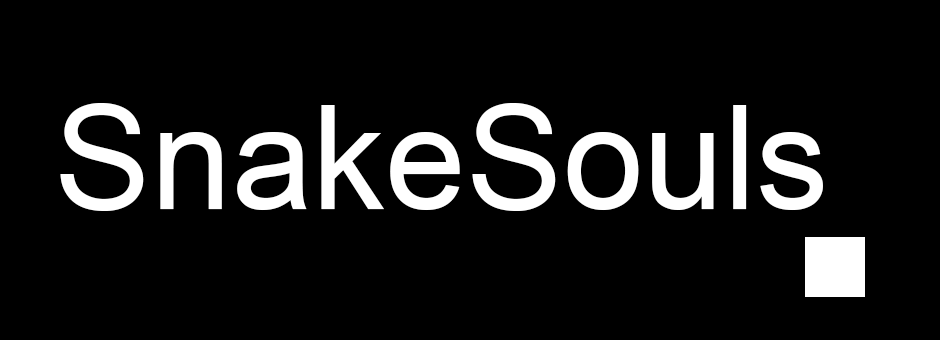
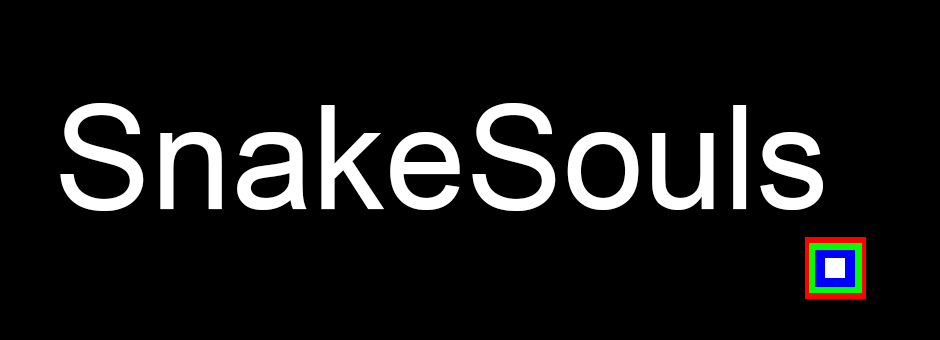
v1.4a
Cleaned up some more files and code
Added custom scrollbar
Added Updates Section
Added About page (Under Construction)
Updated SnakeSouls banner

Changed region(s): [[0.833, 0.6765, 0.9255, 0.8824]]

diff --git a/index.html b/index.html
@@ -4,7 +4,26 @@ Template Name: FusionEdgeAuthor: <a href="https://www.os-templates.com/">OS Temp
 <html>
   <head>
     <meta http-equiv="content-type" content="text/html; charset=UTF-8">
-    <title>AEXTek</title>
+    <style>
+/* The emerging W3C standard
+   that is currently Firefox-only */
+* {
+  scrollbar-width: thin;
+  scrollbar-color: red white;
+}
+
+/* Works on Chrome/Edge/Safari */
+body::-webkit-scrollbar {
+  width: 5px;               /* width of the entire scrollbar */
+}
+body::-webkit-scrollbar-track {
+  background:  rgba(256, 256, 256); ; /* color of the tracking area */
+}
+body::-webkit-scrollbar-thumb {
+  background-color: rgba(204, 0, 0);    /* color of the scroll thumb */
+}
+
+</style> <title>AEXTek</title>
     <link rel="stylesheet" href="layout/styles/layout.css" type="text/css">
     <!-- Featured Slider Elements -->
     <script src="layout/scripts/jquery.min.js"></script>
@@ -17,7 +36,7 @@ $(document).ready(function() {
 });
 </script><!-- End Featured Slider Elements -->
   </head>
-  <body style="                                         background-color: black;">
+  <body style="                                                       background-color: black;">
     <div class="wrapper row1" style="height: 295px; background-color: black;">
       <div style="text-align: left;">
         <div style="text-align: center;">
@@ -31,73 +50,43 @@ $(document).ready(function() {
     </div>
     <div class="wrapper row2" style="background-color: white; height: 72.75px; margin-top: 1.25px;">
       <nav id="topnav" class="clear" style="width: 595px; text-align: center;">
-        <ul style="margin-left: 25px; width: 649px; background-color: white;">
-          <li class="active" style="text-align: center; background-color: white;"><span
+        <ul style="margin-left: 23px; width: 577px;">
+          <span style="font-family: Arial;">
+            <li class="active"><a href="../index.html" title="Home">Home</a></li>
+            <li><a href="pages/error404.html" title="Projects">Projects</a></li>
+            <li><a href="pages/error404.html" title="Works">Works</a></li>
+            <li><a href="#">Socials</a>
+              <ul style="margin-left: -45px; width: 170px;">
+                <li style="background-color: #fdfdfd;"><br>
+                  <span style="color: black;"><span style="font-family: Arial;"></span></span></li>
+                <li style="background-color: #fdfdfd;"><span style="color: black;"><span
 
-              style="color: black;"><span style="font-family: Arial;"><span style="color: #ffffff;"><a
+                      style="font-family: Arial;"><a href="https://www.youtube.com/channel/UCKTd-jIlLjKj_IVVMJmRw9g"
 
-                    href="index.html">Home</a></span></span></span></li>
-          <span style="color: white;"> <span style="font-family: Arial;"> </span>
-          </span>
-          <li style="background-color: white;"><span style="color: white;"><span
+                        target="_blank">Youtube</a></span></span></li>
+                <span style="color: black;"> </span>
+                <li><span style="color: black;"><span style="font-family: Arial;"><a
 
-                style="font-family: Arial;"><a href="pages/error404.html">Projects</a></span></span></li>
-          <span style="color: white;"> <span style="font-family: Arial;"> </span>
-          </span>
-          <li style="background-color: white;"><span style="color: white;"><span
+                        href="https://www.instagram.com/aex10pics" target="_blank">Insta</a></span></span></li>
+                <span style="color: black;"> </span>
+                <li><span style="color: black;"><span style="font-family: Arial;"><a
 
-                style="font-family: Arial;"><br>
-              </span></span> </li>
-          <span style="color: black;"> <span style="font-family: Arial;"> </span>
-          </span>
-          <li style="background-color: black;"><span style="color: black;"><span
+                        href="https://steamcommunity.com/id/AEX10Playz" target="_blank">Steam</a></span></span></li>
+              </ul>
+            </li>
+            <li> <a href="file:///E:/Projects/GIT/Website/Testing%20Branch/pages/about.html"
 
-                style="font-family: Arial;"><a href="pages/error404.html" style="margin-left: -32px;">Works</a></span></span></li>
-          <span style="color: black;"> <span style="font-family: Arial;"> </span>
-          </span>
-          <li style="background-color: white;"><span style="color: black;"><span
-
-                style="font-family: Arial;"><a href="#">Socials</a></span></span>
-            <ul style="margin-left: -45px; width: 170px;">
-              <li style="background-color: #fdfdfd;"><br>
-                <span style="color: black;"><span style="font-family: Arial;"></span></span></li>
-              <li style="background-color: #fdfdfd;"><span style="color: black;"><span
-
-                    style="font-family: Arial;"><a href="https://www.youtube.com/channel/UCKTd-jIlLjKj_IVVMJmRw9g"
-
-                      target="_blank">Youtube</a></span></span></li>
-              <span style="color: black;"> </span>
-              <li><span style="color: black;"><span style="font-family: Arial;"><a
-
-                      href="https://www.instagram.com/aex10pics" target="_blank">InstaGrAM</a></span></span></li>
-              <span style="color: black;"> </span>
-              <li><span style="color: black;"><span style="font-family: Arial;"><a
-
-                      href="https://steamcommunity.com/id/AEX10Playz" target="_blank">StEAM</a></span></span></li>
-            </ul>
-          </li>
-          <span style="color: black;"> <span style="font-family: Arial;"> </span>
-          </span>
-          <li style="background-color: black;"><span style="color: black;"><span
-
-                style="font-family: Arial;"><a href="pages/error404.html">About</a></span></span></li>
-          <span style="color: black;"> <span style="font-family: Arial;"> </span>
-          </span>
-          <li class="last" style="background-color: black;"><span style="color: black;"><span
-
-                style="font-family: Arial;"><a href="mailto:aex10@outlook.com">Contact</a></span></span></li>
-          <span style="font-family: Arial;"> <span style="color: black;"> </span>
+                title="About">About</a></li>
+            <li><a href="mailto:aex10@outlook.com" title="Contact">Contact</a></li>
           </span>
         </ul>
-        <span style="font-family: Arial;"> <span style="color: black;"> </span></span></nav>
-      <div style="text-align: center;"><br>
-      </div>
+      </nav>
     </div>
     <!-- content -->
     <div class="wrapper row3" style="background-color: #000000; height: 911.333px; margin-top: -33.3333px;">
       <div id="container" class="clear" style="margin-top: 22px;">
         <!-- Slider -->
-        <section id="featured_slide_">
+        <section id="featured_slide_" style="margin-top: 160.217px; height: 340px;">
           <!-- ########################################################################################## -->
           <ul id="featured_slide_Content">
             <li class="featured_slide_Image">
@@ -126,13 +115,56 @@ $(document).ready(function() {
         <div id="homepage" style="background-color: black;">
           <div><span style="color: white;"><span style="font-family: Alef;"><span
 
-                  style="font-family: Calibri;">Hello there! This site is where
-                  I keep small coding projects I've worked on and random
-                  creations like drawings, 3d renders, writings, edits, etc.
-                  Feel </span></span></span><span style="color: white;"><span style="font-family: Alef;"><span
+                  style="font-family: Calibri;"></span></span></span><span style="color: white;"><span
 
-                  style="font-family: Calibri;">free to download and modify some
-                  of my stuff for personal use. Ладно?<br>
+                style="font-family: Alef;"><span style="font-family: Calibri;"><span
+
+                    style="color: #33ff33;">Read the Latest Update (7/27/2020):</span></span></span></span></div>
+          <div><span style="color: white;"><span style="font-family: Alef;"><span
+
+                  style="font-family: Calibri;"><br>
+                  <span style="color: #979797;"><span style="font-family: Calibri Light,&quot;Calibri Light&quot;,Times,serif;"></span></span></span></span></span></div>
+          <div><span style="color: white;"><span style="font-family: Alef;"><span
+
+                  style="font-family: Calibri;"><span style="color: #33ff33;"><br>
+                  </span></span></span></span> </div>
+          <div><span style="color: white;"><span style="font-family: Alef;"><span
+
+                  style="font-family: Calibri;"><span style="color: #33ff33;"><br>
+                  </span></span></span></span></div>
+          <div><span style="color: white;"><span style="font-family: Alef;"><span
+
+                  style="font-family: Calibri;"><span style="color: #33ff33;"></span><img
+
+                    src="file:///E:/Projects/GIT/Website/Testing%20Branch/images/updatebar.png"
+
+                    alt="" style="width: 952.444px; height: 231.889px; margin-left: -11.0778px;"><br>
+                </span></span></span></div>
+          <div><span style="color: white;"><span style="font-family: Alef;"><span
+
+                  style="font-family: Calibri;"><br>
+                </span></span></span></div>
+          <div><span style="color: white;"><span style="font-family: Alef;"><span
+
+                  style="font-family: Calibri;">Still working on finishing up
+                  this site, I've already collected everything I wanna put on
+                  here. Just need to finish the pages and start uploading
+                  everything. I like graphic design so I spend a lot more time
+                  than I should trying to get every little detail right. I don't
+                  really have much experience with CSS so I've mostly been using
+                  HTML and JS to embed features and add graphics. Here is the
+                  changelog so far:<br>
+                </span></span></span></div>
+          <div><span style="color: white;"><span style="font-family: Alef;"><span
+
+                  style="font-family: Calibri;"><br>
+                </span></span></span></div>
+          <div><span style="color: white;"><span style="font-family: Alef;"><span
+
+                  style="font-family: Calibri;"><br>
+                </span></span></span></div>
+          <div><br>
+            <span style="color: white;"><span style="font-family: Alef;"><span style="font-family: Calibri;">
                 </span></span><span style="font-family: Alef;"><span style="font-family: Calibri;"></span></span><span
 
                 style="font-family: Alef;"><span style="font-family: Calibri;"></span></span></span><span
@@ -146,7 +178,11 @@ $(document).ready(function() {
           <!-- / content body --> </div>
       </div>
       <!-- Footer -->
-      <div class="wrapper row4" style="margin-top: 10.8333px; height: 10px; background-color: #cc0000;"><br>
+      <div class="wrapper row3" style="margin-top: -496.167px; height: 20px; background-color: #cc0000;"><br>
+        <div id="footer" class="clear" style="width: 800px;"> <br>
+        </div>
+      </div>
+      <div class="wrapper row4" style="margin-top: 512.833px; height: 17px; background-color: #cc0000;"><br>
         <div id="footer" class="clear" style="width: 800px;"> <br>
           <iframe src="https://discordapp.com/widget?id=426877264261808128&amp;theme=dark"
 

diff --git a/pages/about.html b/pages/about.html
@@ -1,0 +1,89 @@
+<!DOCTYPE html>
+<!--
+Template Name: FusionEdgeAuthor: <a href="https://www.os-templates.com/">OS Templates</a>Author URI: https://www.os-templates.com/Licence: Free to use under our free template licence terms
+Licence URI: https://www.os-templates.com/template-terms-->
+<html>
+  <head>
+    <meta http-equiv="content-type" content="text/html; charset=UTF-8">
+    <title>About</title>
+    <link rel="stylesheet" href="../layout/styles/layout.css" type="text/css">
+  </head>
+  <body style="                                                   background-color: black;">
+    <div class="wrapper row1" style="height: 295px; background-color: black;">
+      <div style="text-align: left;">
+        <div style="text-align: center;">
+          <header id="header" class="clear" style="background-color: black;"><img
+              src="../images/aexlogonocoloredit.png" alt="Main Logo" style="width: 250px; height: 251px; margin-left: -15.45px; margin-top: -2px;">
+          </header>
+        </div>
+      </div>
+      <br>
+    </div>
+    <div class="wrapper row2" style="background-color: white; height: 72.75px; margin-top: 1.25px;">
+      <nav id="topnav" class="clear" style="width: 595px; text-align: center;">
+        <ul style="margin-left: 23px; width: 577px;">
+          <span style="font-family: Arial;">
+            <li><a href="../index.html" title="Home">Home</a></li>
+            <li><a href="file:///E:/Projects/GIT/Website/Testing%20Branch/pages/projects.html"
+                title="Projects">Projects</a></li>
+            <li><a href="file:///E:/Projects/GIT/Website/Testing%20Branch/pages/works.html"
+                title="Works">Works</a></li>
+            <li><a href="#">Socials</a>
+              <ul style="margin-left: -45px; width: 170px;">
+                <li style="background-color: #fdfdfd;"><br>
+                  <span style="color: black;"><span style="font-family: Arial;"></span></span></li>
+                <li style="background-color: #fdfdfd;"><span style="color: black;"><span
+                      style="font-family: Arial;"><a href="https://www.youtube.com/channel/UCKTd-jIlLjKj_IVVMJmRw9g"
+                        target="_blank">Youtube</a></span></span></li>
+                <span style="color: black;"> </span>
+                <li><span style="color: black;"><span style="font-family: Arial;"><a
+                        href="https://www.instagram.com/aex10pics" target="_blank">Insta</a></span></span></li>
+                <span style="color: black;"> </span>
+                <li><span style="color: black;"><span style="font-family: Arial;"><a
+                        href="https://steamcommunity.com/id/AEX10Playz" target="_blank">Steam</a></span></span></li>
+              </ul>
+            </li>
+            <li class="active"><a href="file:///E:/Projects/GIT/Website/Testing%20Branch/pages/about.html"
+                title="About">About</a></li>
+            <li><a href="mailto:aex10@outlook.com" title="Contact">Contact</a></li>
+          </span>
+        </ul>
+      </nav>
+    </div>
+    <!-- content -->
+    <div class="wrapper row3">
+      <div id="container" class="clear">
+        <!-- content body -->
+        <h1 style="text-align: center;"><span style="color: white;">Hello<br>
+          </span></h1>
+        <div style="text-align: center;"><span style="color: white;"></span><span
+            style="color: white;"></span></div>
+        <p style="text-align: center;"><span style="color: white;"><span style="font-family: Alef;"><span
+                style="font-family: Calibri;">This site is where I keep small
+                coding projects I've worked on and random creations like
+                drawings, 3d renders, writings, edits, etc. Feel </span></span></span><span
+            style="color: white;"><span style="font-family: Alef;"><span style="font-family: Calibri;">free
+                to download and modify some of my stuff for personal use. </span></span></span></p>
+        <div style="text-align: center;"><span style="color: white;"> </span></div>
+        <p><span style="color: white;"><br>
+          </span></p>
+        <span style="color: white;"> </span>
+        <ul>
+          <!-- / content body -->
+        </ul>
+      </div>
+    </div>
+    <!-- Footer -->
+    <div class="wrapper row4">
+      <div id="footer" class="clear"> <br>
+      </div>
+    </div>
+    <!-- Copyright -->
+    <div class="wrapper row5">
+      <footer id="copyright" class="clear">
+        <p class="fl_left" style="margin-left: -327px; width: 144px; height: 25px; margin-top: 10px;"><span
+            style="color: black;">©2012-2020 AEX10</span><span style="color: black;"></span></p>
+      </footer>
+    </div>
+  </body>
+</html>

diff --git a/README.md b/README.md
@@ -20,3 +20,10 @@ v.1.3a
 Removed some leftover html files
 Fixed some element spacing and sizes
 Added social media and contact links
+
+v1.4a
+Cleaned up some more files and code
+Added custom scrollbar
+Added Updates Section
+Added About page (Under Construction)
+Updated SnakeSouls banner
